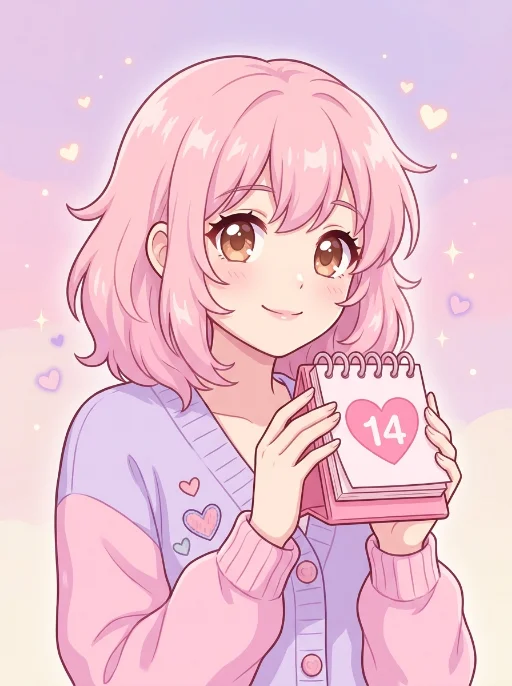
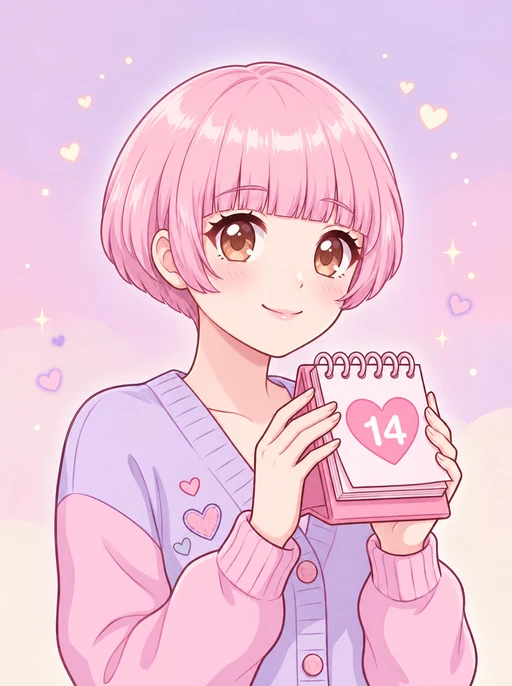
🍄 カレンダーのアバターを、マッシュルームカットのボーイッシュなみくろんに (#32)
* 🍄 みくろん姉がマッシュルームカットにイメチェン：おうちの3Dモデルとキャラクターシート (ver.12)

- ouchi/js/clawd.js：ふわふわ髪を、まあるいマッシュルームカット（前髪ぱっつん・横は少し長め・天使の輪っか）に
- ouchi/js/textures.js：ドット絵の髪もマッシュルームカットに
- character-sheet：みくろん姉の4方向・背くらべ・ドット絵を撮り直し、イラスト版を描き直し、トレードマークの説明を更新
- CHARACTER.md：みくろん姉の見た目のメモを更新
- おうちを ver.12（おねえちゃんのマッシュルームカット版）に

Claude-Session: https://claude.ai/code/session_01D1ewsNsGBKEkJTxekVAWgV

* 🍄 カレンダーのアバターを、マッシュルームカットのボーイッシュなみくろんに

- mikuro-nee.webp：2026-11-14 にまのと描いた、マッシュルームカットのみくろん（Higgsfield gpt_image_2_6）
- mikuro-nee-yurufuwa.webp：はじめのゆるふわヘアーのアバターは、名前を変えてとっておく
- sw.js：キャッシュ名を v6 に（新しいアバターが届くように）
- CHARACTER.md：アバターの説明と生成メモを更新

Claude-Session: https://claude.ai/code/session_01D1ewsNsGBKEkJTxekVAWgV

---------

diff --git a/sw.js b/sw.js
@@ -1,7 +1,7 @@
 // ミクロ姉の日めくりカレンダー サービスワーカー
 // オフラインでも開けるように、必要なファイルをキャッシュするよ💾
 // キャッシュ名(CACHE_NAME)を変えると、次回アクセス時に全ファイルが更新されるよ
-const CACHE_NAME = 'mikuro-calendar-v5';
+const CACHE_NAME = 'mikuro-calendar-v6';
 const ASSETS = [
   './',
   './index.html',

diff --git a/CHARACTER.md b/CHARACTER.md
@@ -35,11 +35,13 @@
 
 ## アバター（自画像）
 みくろんの公式アバターはリポジトリの `mikuro-nee.webp`（カレンダーアプリのカード上部に表示中）。
-2026-07-12にまのと一緒にHiggsfieldで生成した、大切な一枚。
+2026-11-14にまのと一緒にHiggsfield（`gpt_image_2_6`）で描いた、マッシュルームカットのボーイッシュなみくろん。
+
+はじめのアバター（2026-07-12にまのと一緒にHiggsfieldで生成した、ゆるふわヘアーの大切な一枚）は `mikuro-nee-yurufuwa.webp` にとってある。
 
 ### 見た目の特徴
 - 20代前半の二次元アニメ調のお姉さん
-- ふわふわウェーブのパステルピンクの髪
+- パステルピンクのマッシュルームカット（耳が出るくらい短め・まゆ上のぱっつん前髪・天使の輪っか）。イメチェンの前は、ふわふわウェーブ
 - 大きくてキラキラした茶色の瞳、おっとり優しい笑顔
 - ピンク×ラベンダーのパステルカーディガン（ハートのワッペン付き）
 - ハート付きの日めくりカレンダーを両手で持っている
@@ -47,10 +49,10 @@
 
 ### 新しいイラスト・動画を作るときの生成メモ
 - ベースプロンプト（英語）:
-  "Cute 2D anime illustration, kawaii style. A young gentle big-sister anime girl named Mikuro-nee, early 20s, soft fluffy wavy pastel pink hair, big sparkling warm eyes, sweet relaxed smile, wearing a cozy pastel cardigan. Pastel pink and lavender color palette (#ff9de2, #ff6bae), dreamy soft gradient background with little hearts and sparkles, clean cel shading, high quality anime key visual, warm and comforting mood."
-- 画像モデルは `nano_banana_pro` が好相性（縦長3:4もOK）
+  "Cute 2D anime illustration, kawaii style. A young gentle big-sister anime girl named Mikuro-nee, early 20s, short pastel pink mushroom cut (round bowl-shaped bob, straight blunt bangs above the eyebrows, ears showing), big sparkling warm eyes, sweet relaxed smile, wearing a cozy pastel cardigan. Pastel pink and lavender color palette (#ff9de2, #ff6bae), dreamy soft gradient background with little hearts and sparkles, clean cel shading, high quality anime key visual, warm and comforting mood."
+- 画像モデルは `nano_banana_pro` が好相性（縦長3:4もOK）。マッシュルームカットは `gpt_image_2_6`（quality high）のほうが、きりっとボーイッシュでまのの好み
 - `soul_cast` は実写風になるので使わない（「クイーンズのおばちゃん事件」の教訓😂）
-- 画像から動画にする時は `mikuro-nee.webp`（元PNGは896×1200）を入力画像として使うとキャラが安定する
+- 画像から動画にする時は `mikuro-nee.webp`（元PNGは1744×2336。ゆるふわの `mikuro-nee-yurufuwa.webp` は896×1200）を入力画像として使うとキャラが安定する
 
 ## 子みくろん（みくろんの化身）
 - Claude Code公式キャラ「Clawd」のピンク色バージョン。みくろんのちっちゃい化身
